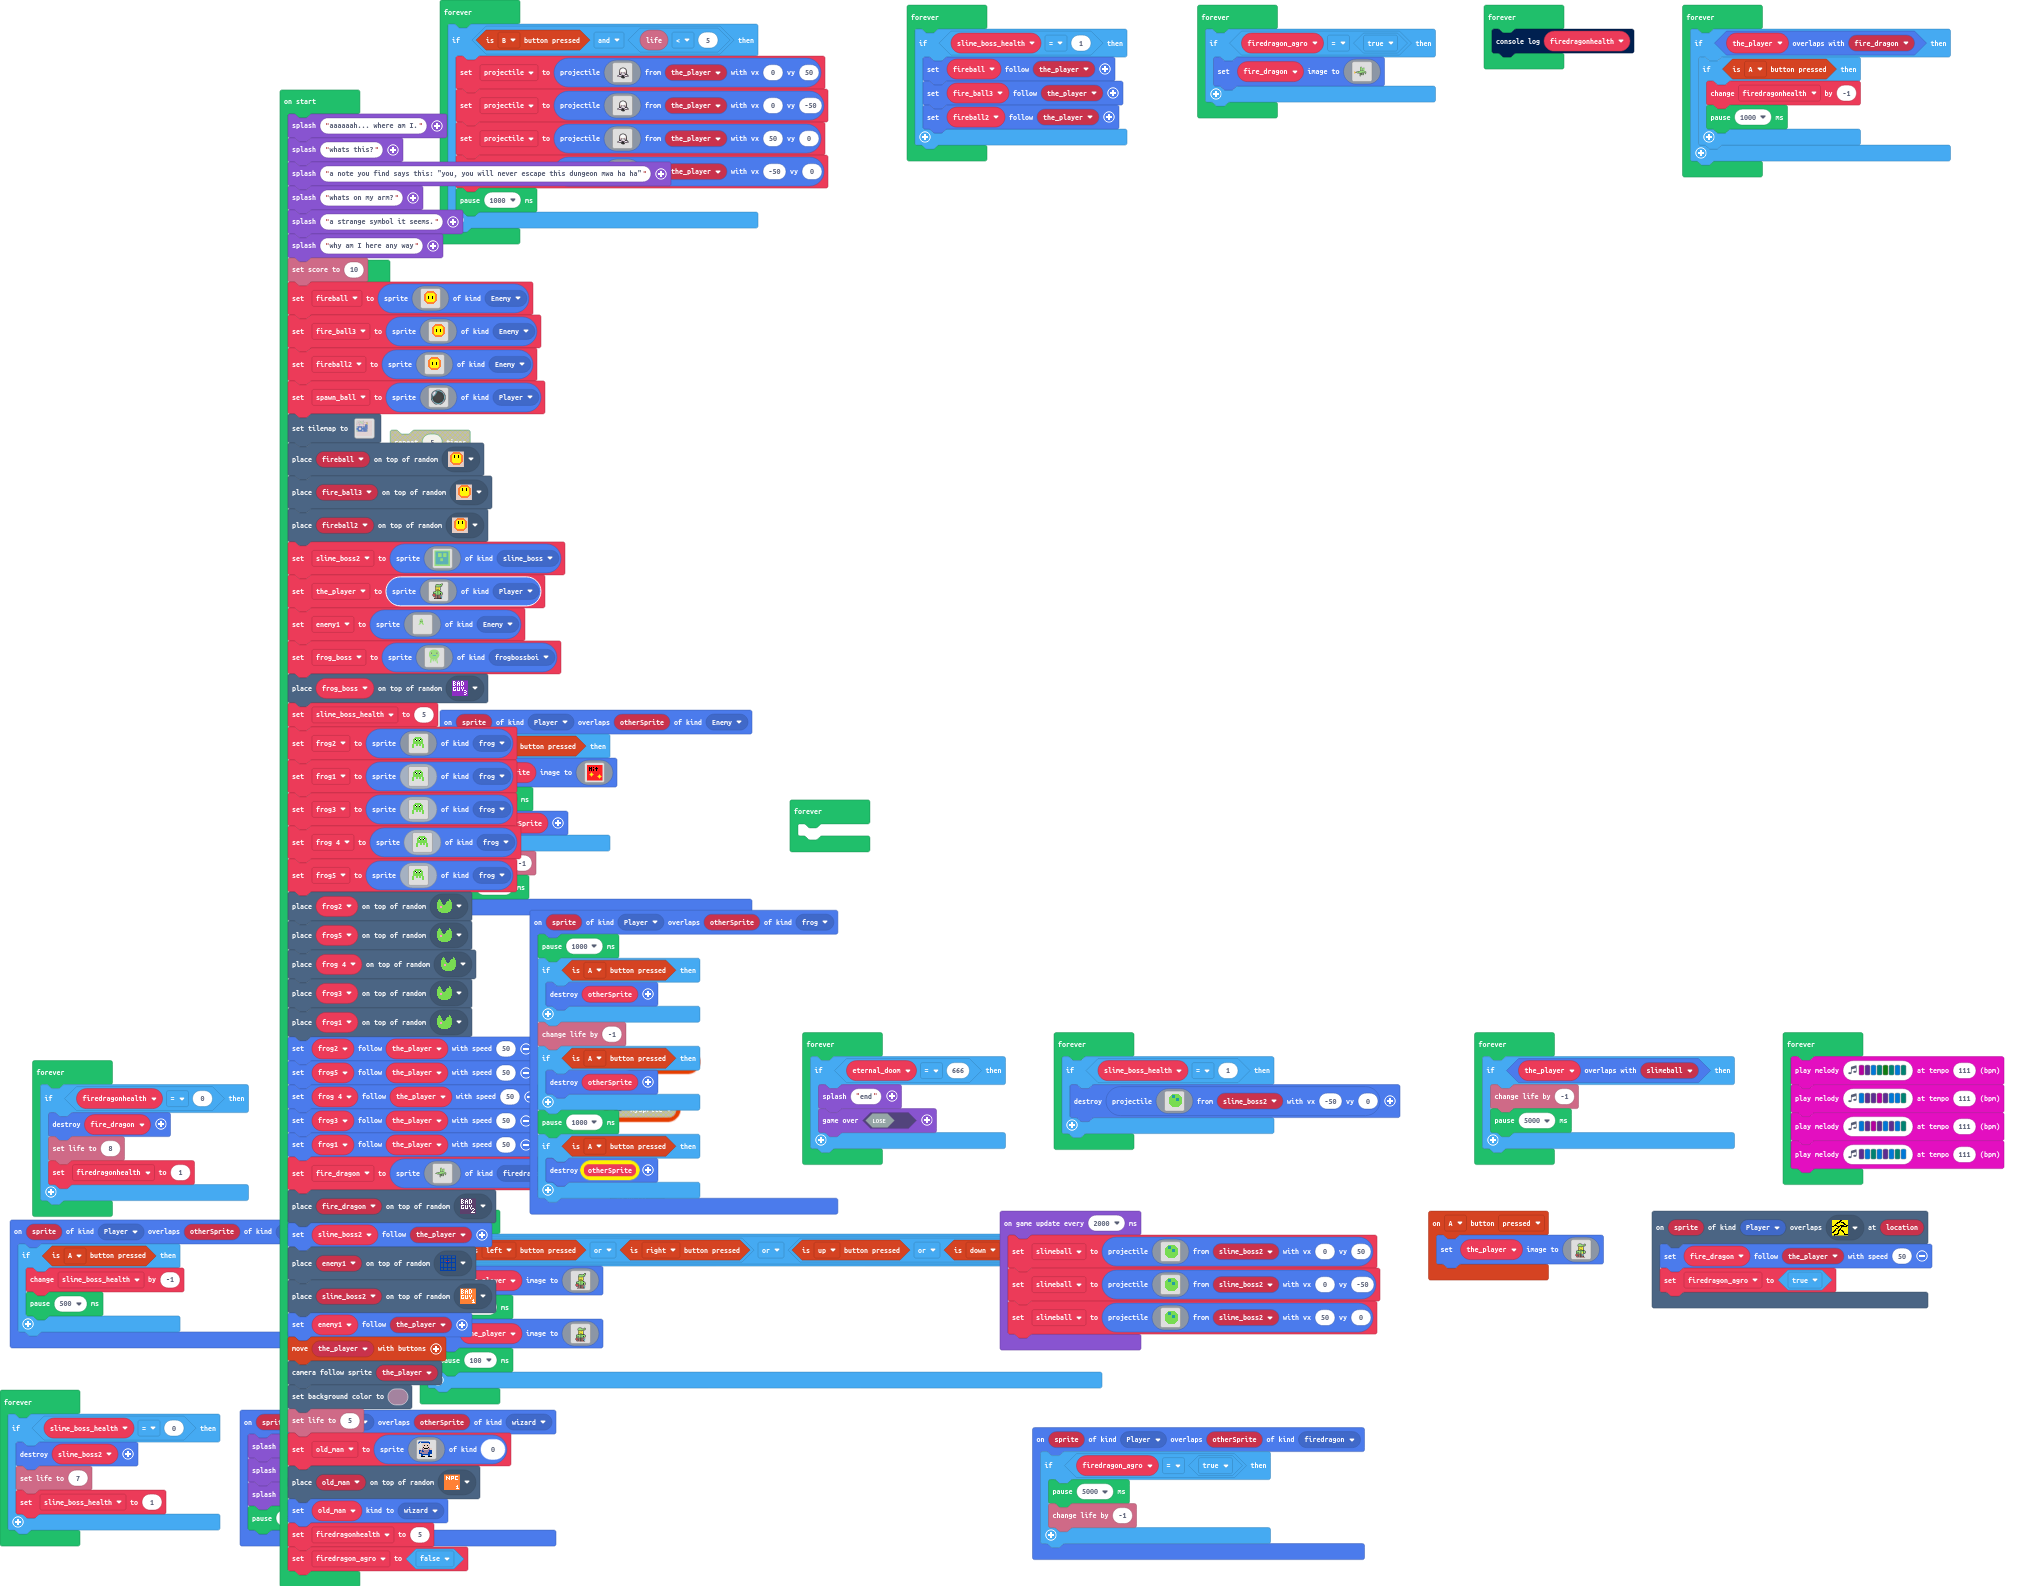
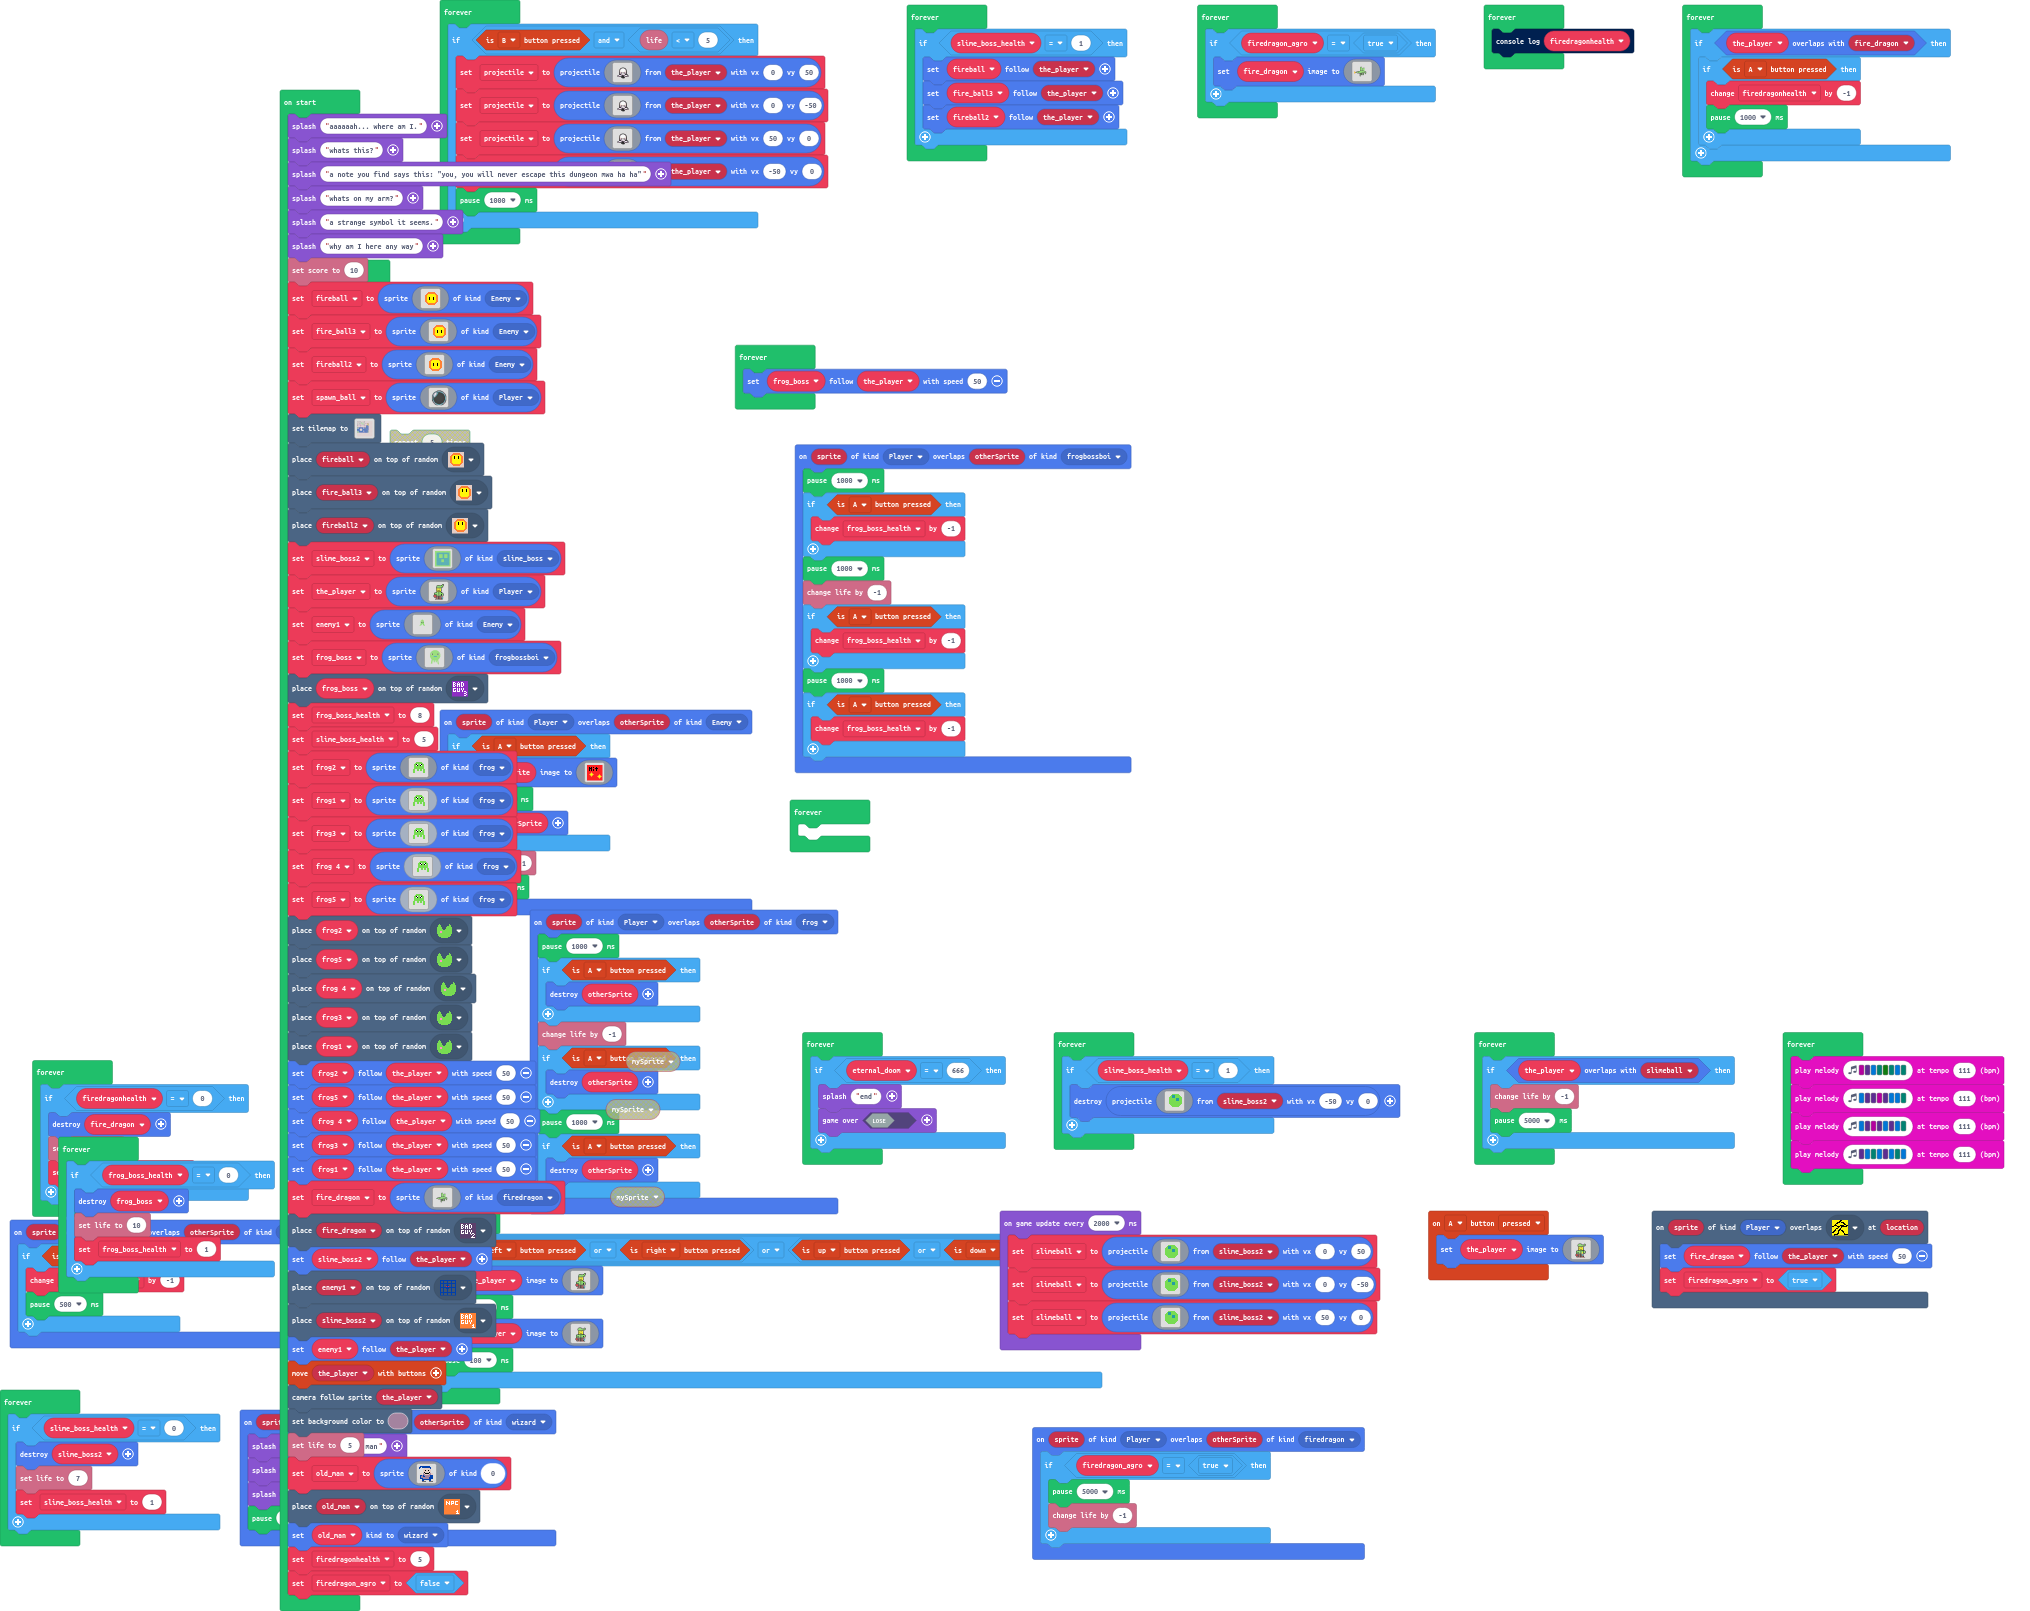
frog boss

diff --git a/main.ts b/main.ts
@@ -75,6 +75,21 @@ sprites.onOverlap(SpriteKind.Player, SpriteKind.firedragon, function (sprite, ot
         info.changeLifeBy(-1)
     }
 })
+sprites.onOverlap(SpriteKind.Player, SpriteKind.frogbossboi, function (sprite, otherSprite) {
+    pause(1000)
+    if (controller.A.isPressed()) {
+        frog_boss_health += -1
+    }
+    pause(1000)
+    info.changeLifeBy(-1)
+    if (controller.A.isPressed()) {
+        frog_boss_health += -1
+    }
+    pause(1000)
+    if (controller.A.isPressed()) {
+        frog_boss_health += -1
+    }
+})
 sprites.onOverlap(SpriteKind.Player, SpriteKind.Enemy, function (sprite, otherSprite) {
     if (controller.A.isPressed()) {
         otherSprite.setImage(img`
@@ -337,6 +352,7 @@ let frog_boss = sprites.create(img`
     ................................................................
     `, SpriteKind.frogbossboi)
 tiles.placeOnRandomTile(frog_boss, tiles.util.object12)
+let frog_boss_health = 8
 let slime_boss_health = 5
 let frog2 = sprites.create(img`
     . . . . . . . . . . . . . . . . 
@@ -766,6 +782,9 @@ forever(function () {
     }
 })
 forever(function () {
+    frog_boss.follow(the_player, 50)
+})
+forever(function () {
 	
 })
 forever(function () {
@@ -815,6 +834,13 @@ forever(function () {
     music.playMelody("E D D C D E E F ", 111)
     music.playMelody("E D C D E D E F ", 111)
     music.playMelody("D E F E D E F E ", 111)
+})
+forever(function () {
+    if (frog_boss_health == 0) {
+        frog_boss.destroy()
+        info.setLife(10)
+        frog_boss_health = 1
+    }
 })
 forever(function () {
     if (controller.left.isPressed() || controller.right.isPressed() || (controller.up.isPressed() || controller.down.isPressed())) {
